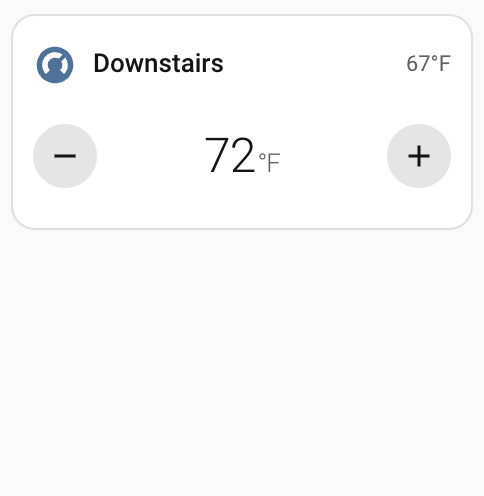
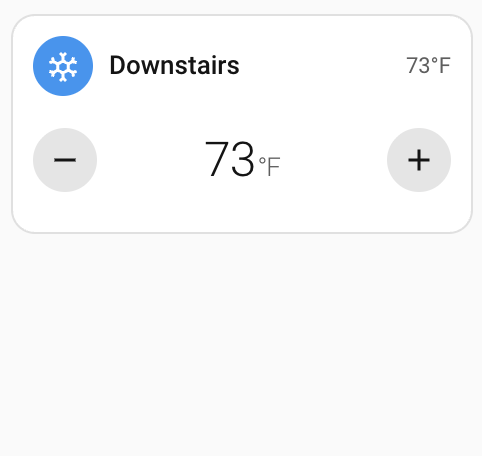
Update README screenshots
Replace the preview images with a new 4-image layout: all-rows,
compact, two-aside, and full-width. Drop the range-setpoint previews.

diff --git a/README.md b/README.md
@@ -5,22 +5,18 @@ A compact, debounced thermostat card for Home Assistant Lovelace. Designed for t
 <table>
   <tr>
     <td align="center">
-      <img src="images/preview-single-full.png" alt="Single setpoint, all options" width="300"><br>
-      <sub><b>Single setpoint</b> — heat / cool / auto, all rows enabled</sub>
+      <img src="images/preview-single-full.png" alt="Single setpoint with mode, preset, and fan rows" width="300"><br>
+      <sub><b>All rows</b> — HVAC modes, presets, and fan</sub>
     </td>
     <td align="center">
-      <img src="images/preview-range-full.png" alt="Range setpoint, all options" width="300"><br>
-      <sub><b>Range setpoint</b> — heat_cool, all rows enabled</sub>
+      <img src="images/preview-single-compact.png" alt="Compact card, header and target temp only" width="300"><br>
+      <sub><b>Compact</b> — header + target temp only</sub>
     </td>
   </tr>
   <tr>
-    <td align="center">
-      <img src="images/preview-single-compact.png" alt="Single setpoint, compact" width="300"><br>
-      <sub>Compact — header + target temp only</sub>
-    </td>
-    <td align="center">
-      <img src="images/preview-range-compact.png" alt="Range setpoint, compact" width="300"><br>
-      <sub>Compact — header + cool / heat rows</sub>
+    <td align="center" colspan="2">
+      <img src="images/preview-two-up.png" alt="Two compact cards side by side" width="640"><br>
+      <sub><b>Two aside</b> — compact cards fit two across on a phone</sub>
     </td>
   </tr>
   <tr>
